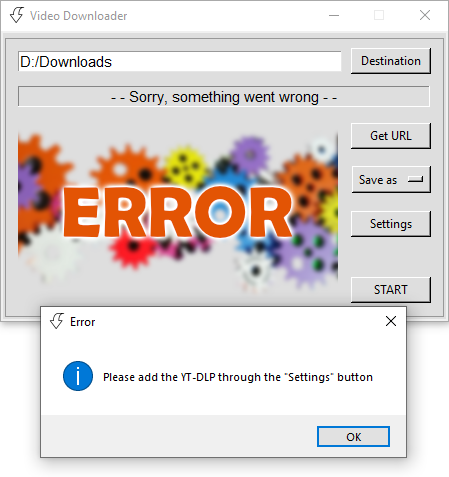
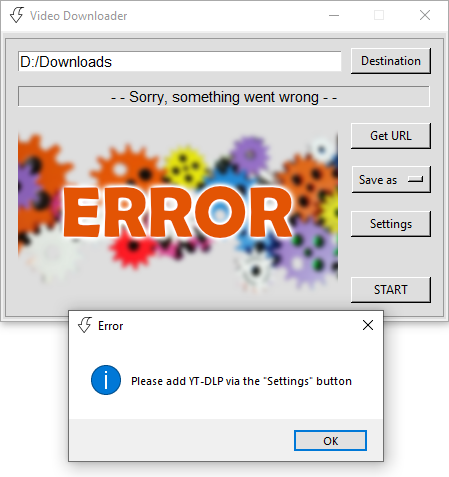
lang. cosmetic

Changed region(s): [[0.0624, 0.6164, 0.9354, 0.9979]]

diff --git a/functions/messages.py b/functions/messages.py
@@ -1,7 +1,7 @@
 import tkinter.messagebox
 
 popup_message_dic = {
-    'no_yt_dlp': 'Please add the YT-DLP through the "Settings" button ',
+    'no_yt_dlp': 'Please add YT-DLP via the "Settings" button',
     'destination_folder':'Please add the destination folder with the "Destination" button',
     'no_URL':'Please add a video link with the "Get URL" button',
     'no_resolution':'Please select the target format with the "Save as" button',
